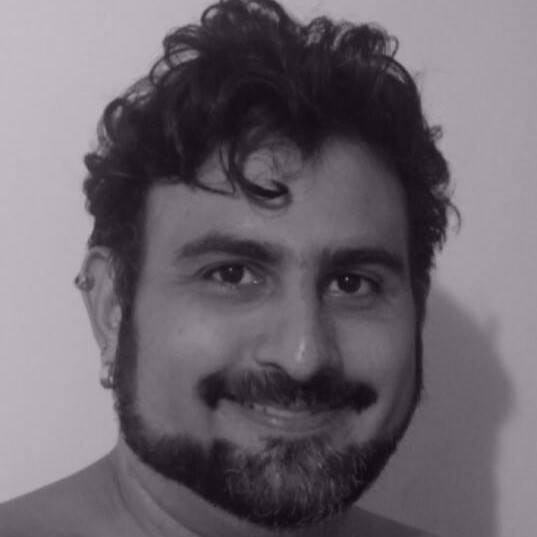
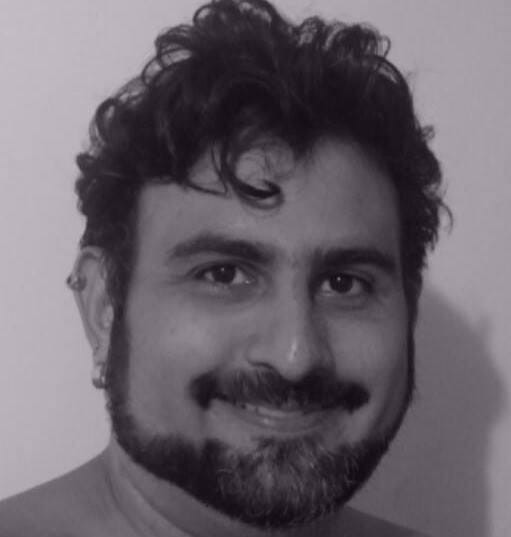
correções
corrigi o tamanho das fotos do desenvolvimento e as listas de referência/trilha sonora (adicionado link)

diff --git a/index.html b/index.html
@@ -38,7 +38,7 @@
                         </a>
                     </li>
                     <li class="nav-item">
-                        <a class="nav-link" href="#Devs">Devs
+                        <a class="nav-link" href="#Devs">Desenvolvimento
                             <span class="sr-only">(current)</span>
                         </a>
                     </li>
@@ -94,24 +94,28 @@
                             <li>Pular: tocar no personagem</ul>
                             <li>Atirar: tocar no inimigo</li>
                             
-                            <P></P><ul>Referências:</ul>
+                            <P></P><ul>Referências:
                             <li><a href="https://www.trex-game.skipser.com/">Jogo do Dinossauro da Google</a></li>
                             <li><a href="https://play.google.com/store/apps/details?id=com.kiloo.subwaysurf&hl=pt_BR&gl=US&pli=1">Subway Surfers</a></li>
                             <li><a href="https://ivanm71.itch.io/seaside-cleaning-day">Cleaning Day</a></li>
                             <li><a href="https://tape1.itch.io/it-is-my-duty-to-clean-up-this-beach">Its is my duty to cleanup this beach</a></li>
-                            
+                            </ul>
 
-                            <p></p><ul>Trilha Sonora:</ul>
-                                
+                            <p></p><ul>Trilha Sonora:
+                            <li><a href="https://play.google.com/store/apps/details?id=com.AdlemGames.BounceTales&gl=US&pli=1">Bounce Tales</a></li>
+                            </ul>
+
+                            <ul>Linguagem: 
+                                <li>Lua</li>
+                                </ul>
                             
-                            <ul>Linguagem: Lua</ul>
-                            
-                            <ul>Softwares utilizados: </ul>
+                            <ul>Softwares utilizados: 
                             <li>Solar2D</li>
                             <li>Sublime Text 3</li>
                             <li>VSCode</li>
                             <li>Aseprite</li>
                             <li>Photoshop CS6</li></P>
+                        </ul>
                     </div>
             </div>
         </section>
@@ -122,7 +126,7 @@
 
         <section id="Devs">
             <div class="container">
-                <div class="sectionHead">Devs</div>
+                <div class="sectionHead">Desenvolvimento</div>
                 <hr>
                 <br>
                 <div class="sectionSubHead"></div>

diff --git a/style.css b/style.css
@@ -230,7 +230,7 @@ section:nth-child(odd) {
 }
 
 .card-img-top {
-    max-height: 190px;
+    max-height: 360px;
 }
 .card {
     margin: 15px 0;
